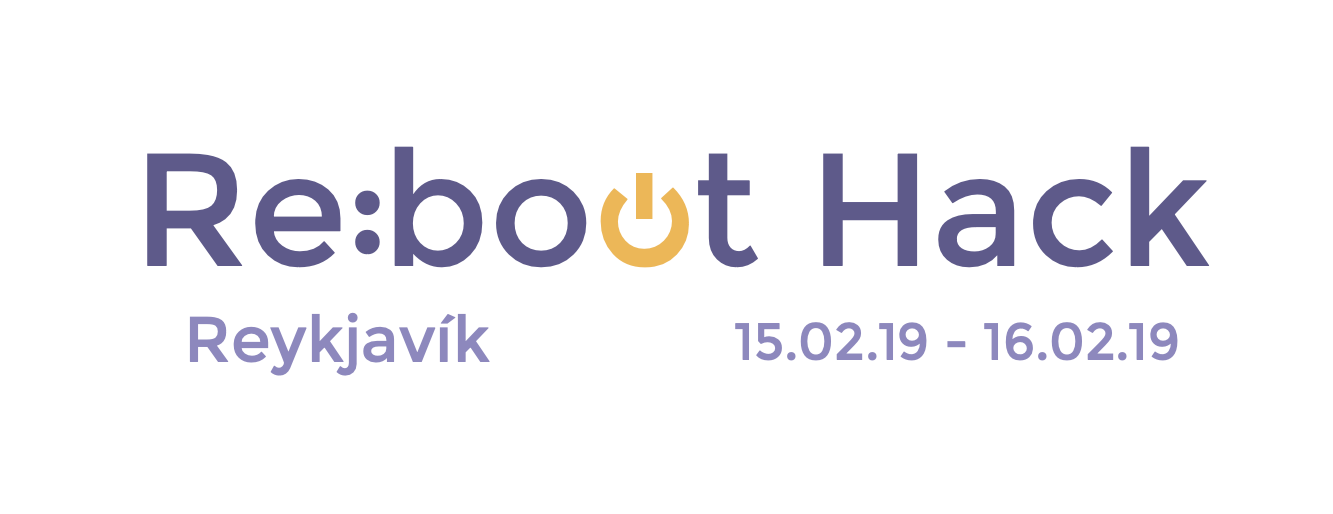
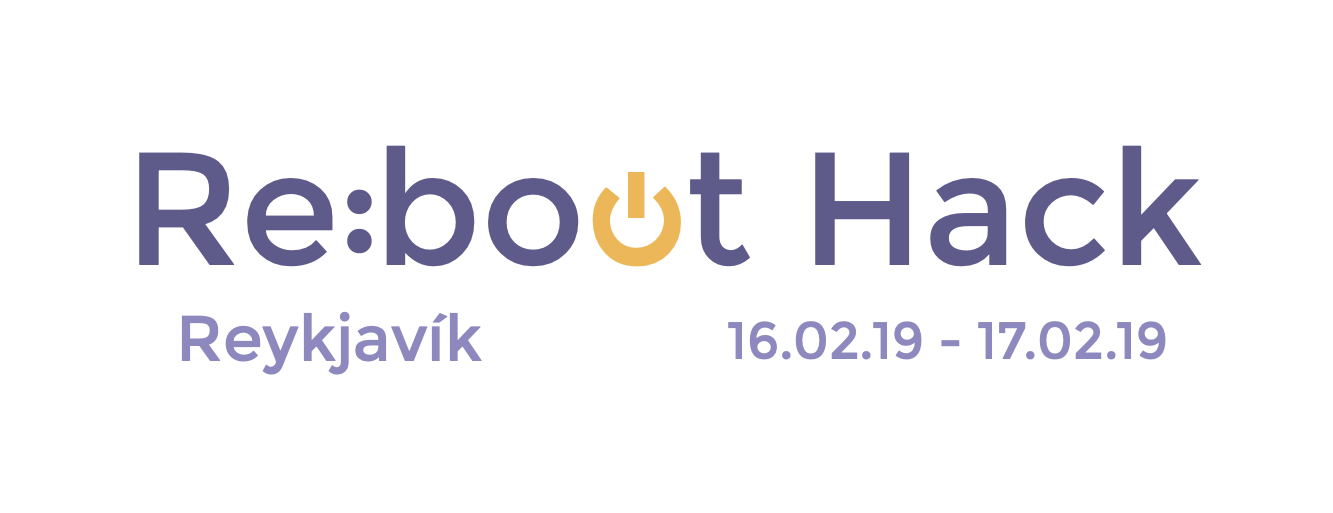
Fix dates

Changed region(s): [[0.0923, 0.2807, 0.9227, 0.5302], [0.5229, 0.6238, 0.892, 0.7173], [0.123, 0.5926, 0.3691, 0.7485]]

diff --git a/src/localization/translations.js b/src/localization/translations.js
@@ -143,7 +143,7 @@ module.exports = {
       },
       question3: {
         text: 'Hvar og hvenær fer Reboot fram?',
-        answer: 'Reboot hack fer fram í Háskóla Íslands laugardaginn 15.febrúar til sunnudagsins 16.febrúar 2019.',
+        answer: 'Reboot hack fer fram í Háskóla Íslands laugardaginn 16. febrúar til sunnudagsins 17. febrúar 2019.',
       },
       question4: {
         text: 'Er þetta byrjendavænt? Þarf ég að kunna að forrita?',
@@ -326,7 +326,7 @@ module.exports = {
       },
       question3: {
         text: 'When and where is the hackathon?',
-        answer: 'The hackathon is held in the University of Iceland Saturday 15th of Febuary to Sunday 16th of Febuary 2019.',
+        answer: 'The hackathon is held in the University of Iceland Saturday 16th of February to Sunday 17th of February 2019.',
       },
       question4: {
         text: 'Do I have to know how to code?',

diff --git a/src/components/faq/components/question/question.css b/src/components/faq/components/question/question.css
@@ -8,6 +8,7 @@
   padding-bottom: 0;
   text-align: left;
   margin: 0;
+  color: #9186c6;
 }
 
 .answer {
@@ -16,5 +17,5 @@
 }
 
 a {
-  color: black;
+  color: #9186c6;
 }
